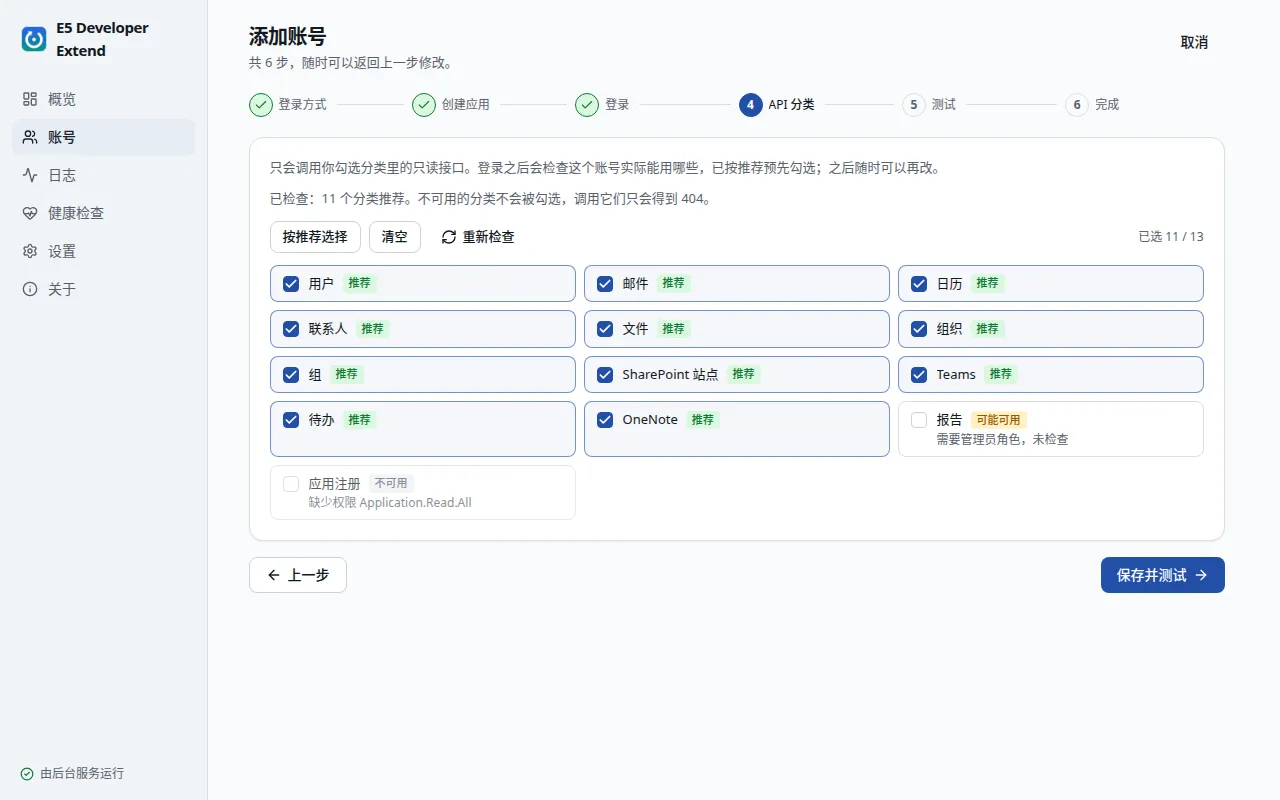
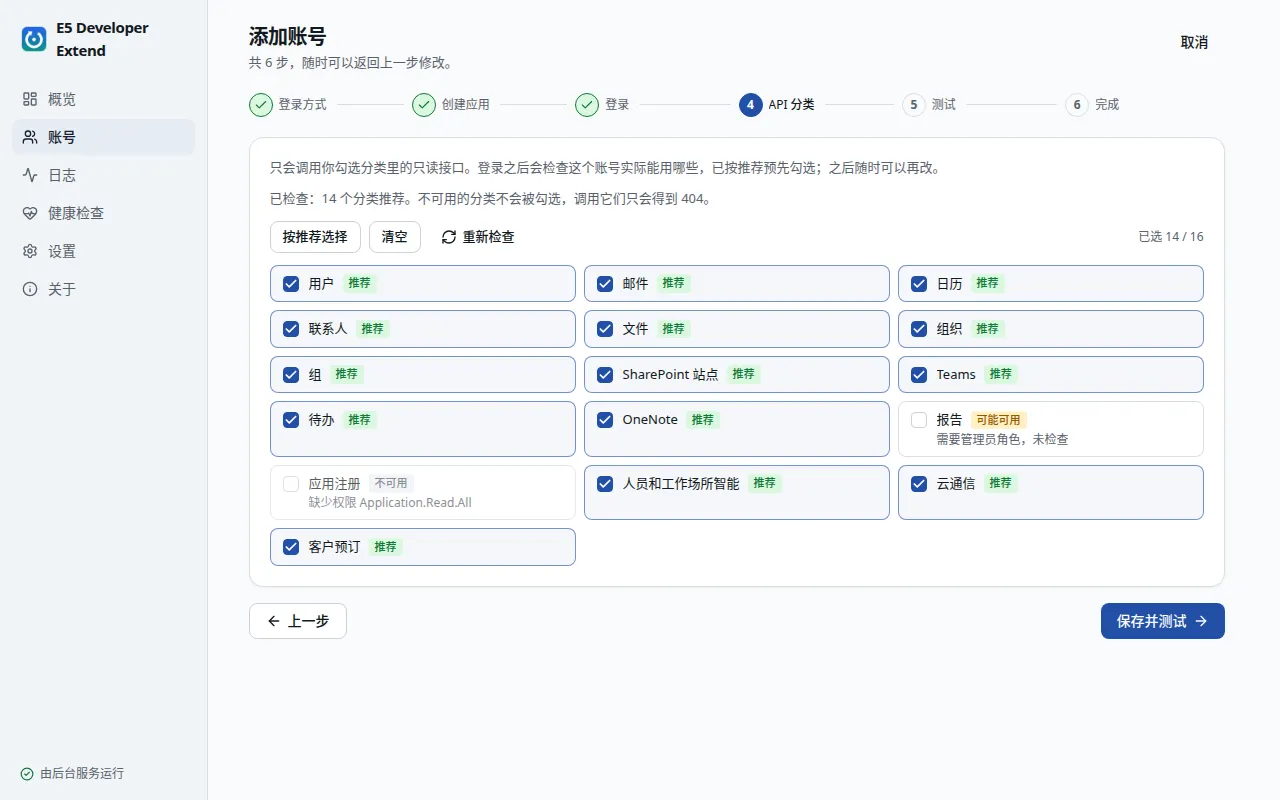
Document the new presets, catalog entries, statistics and the renewal checklist; refresh screenshots

diff --git a/CHANGELOG.md b/CHANGELOG.md
@@ -4,7 +4,16 @@
 
 ## 未发布
 
+### 新增
+
+- 调用节奏新增两档预设：**密集（类似 Renew Plus）**（8 到 17 分钟一轮，每轮 15 到 25 个 API）和**急救（临时）**（5 到 10 分钟一轮，每轮 20 到 30 个 API，只用于订阅到期前的几天，界面上有提示，过后请手动改回“标准”）。某一轮要的 API 数比账号能用的多时，调用能用的全部。
+- API 目录新增只读接口：洞察（热门、使用过、共享的文档）、相关人员、在线状态（presence）、直属下级、用户设置、OneDrive 驱动器列表、日历组、OneNote 分区，以及 Bookings（业务和货币，默认关闭）。新增三个只读权限，自动创建应用会一并申请：委托身份 `People.Read`、`Presence.Read`、`Bookings.Read.All`，应用身份 `Presence.Read.All`、`Bookings.Read.All`。已有的应用注册没有这些权限时，对应接口只是不会被选中，其他不受影响；要补权限可以重新运行 `e5extend app setup`。没有收 `/me/manager`（没有上级的账号会返回 404）、`/me/drive/recent` 和 `sharedWithMe`（微软已停止返回数据）、`/me/settings/regionalAndLanguageSettings`（只在 beta 里）。详见 [docs/graph-api-catalog.md](docs/graph-api-catalog.md)。
+- 按 API 统计调用次数：引擎为每个账号记录每个 API 的成功、失败、总次数和最近一次的结果（存在 state.json 里，每个 API 一条）。命令行 `e5extend stats [账号]`；桌面版“日志”页新增“按 API 统计”，可按列排序。
+- 桌面版概览页新增红色描边的“续期失败？”按钮，打开检查清单（旧版沙盒订阅退役、开发者控制面板、订阅卡片、健康检查、没有保证），清单也写进了 [常见问题](docs/user/faq.md)。
+
 ### 变更
+
+- 默认全天调用（`work_start` 和 `work_end` 都是 `"00:00"`，两者相等表示全天）；以前是 08:00 到 22:00。已有的配置不变。
 
 - 默认每天都调用（以前只在周一到周五）。已有的配置不变；要改回只在工作日，在桌面版“设置 → 调用节奏”里选“仅工作日”，或在配置里写 `work_days = ["mon", "tue", "wed", "thu", "fri"]`。
 

diff --git a/docs/user/faq.md b/docs/user/faq.md
@@ -63,6 +63,18 @@ e5extend doctor          # 全面检查
 这和 403（权限不够）不同，加权限也没用。运行 `e5extend account test <名称> --recommend` 看哪些分类可用，
 加 `--apply` 把可用的分类写进账号；桌面版在编辑账号的“API 分类”一步里有同样的检查。
 
+## 续期失败了怎么办？
+
+桌面版概览页右上角的“续期失败？”按钮会打开同样的清单。按顺序看：
+
+1. **旧版沙盒订阅正在被微软停用。** 微软在逐步退役旧的 Microsoft 365 开发者沙盒订阅（Legacy sandbox retirement），这类订阅不再靠活动续期，
+   和本工具无关。先读微软的说明：<https://learn.microsoft.com/en-us/office/developer-program/legacy-subscription-retirement-faq>。
+2. **看开发者控制面板。** 登录 Microsoft 365 开发者计划的控制面板，确认订阅是否还在、什么时候到期、有没有被标成不符合条件。
+3. **看概览页的“E5 订阅”卡片。** 它读取租户里的订阅状态和到期日（读不到时可以手动填到期日）；状态变化、续期成功和到期前 30、7、1 天都会通知。
+4. **跑一次健康检查。** 桌面版的“健康”页，或 `e5extend doctor`：确认账号没有停在 `needs_attention`、调用没有大量失败、权限够用。
+   账号本身出了问题时，续期当然也无从谈起。
+5. **没有保证。** 这个工具只是让租户有规律的开发活动，是否续期由微软决定（见下一条）。
+
 ## 会不会保证续期？
 
 不会。这个工具只是让租户有规律的、看起来自然的开发活动，是否续期由微软决定。

diff --git a/docs/user/getting-started.en.md b/docs/user/getting-started.en.md
@@ -122,8 +122,19 @@ Open **Settings**. **Running** has two switches:
 When it is on you see "Running" and the next run time. If both exist, the background service runs the engine and the
 tray only shows status.
 
-**Call pace** has three presets (Light, Standard, Frequent) and a choice between every day and weekdays only. Exact
-intervals, working hours, the active period and a proxy are under **Advanced settings**.
+**Call pace** has five presets and a choice between every day and weekdays only. Exact intervals, working hours, the
+active period and a proxy are under **Advanced settings**. By default it runs all day, every day.
+
+| Preset | Interval | APIs per round | For |
+| --- | --- | --- | --- |
+| Light | 2 to 4 hours | 2 to 5 | Less noise |
+| **Standard (default)** | 40 minutes to 2 hours | 3 to 8 | Everyday use |
+| Frequent | 20 minutes to 1 hour | 5 to 12 | A bit busier |
+| Intensive (like Renew Plus) | 8 to 17 minutes | 15 to 25 | About the intensity of Microsoft365 E5 Renew Plus |
+| Rescue (temporary) | 5 to 10 minutes | 20 to 30 | The last few days before the subscription expires; switch back to Standard afterwards, the app does not do it for you |
+
+When a round asks for more APIs than the account can use, it calls all the usable ones. The harder it runs, the more
+likely it is to be throttled, and Microsoft still decides whether the subscription renews.
 
 ![Settings: Running and Call pace](../images/en/settings.webp)
 

diff --git a/docs/user/getting-started.md b/docs/user/getting-started.md
@@ -99,7 +99,17 @@ Linux 选 `deb` 或 `rpm`（桌面版要**两个包都装**）。各系统的详
 
 打开后会显示“运行中”和下次运行时间。两者都有时由后台服务运行引擎，托盘只显示状态。
 
-**调用节奏**可以选“轻度 / 标准 / 频繁”三档预设，以及每天还是只在工作日运行；精确的间隔、工作时段、运行期限、代理在“高级设置”里。
+**调用节奏**有五档预设，以及每天还是只在工作日运行；精确的间隔、工作时段、运行期限、代理在“高级设置”里。默认全天、每天都调用。
+
+| 预设 | 间隔 | 每轮 API 数 | 用途 |
+| --- | --- | --- | --- |
+| 轻度 | 2 到 4 小时 | 2 到 5 | 想少打扰 |
+| **标准（默认）** | 40 分钟到 2 小时 | 3 到 8 | 日常使用 |
+| 频繁 | 20 分钟到 1 小时 | 5 到 12 | 想更勤一点 |
+| 密集（类似 Renew Plus） | 8 到 17 分钟 | 15 到 25 | 接近 Microsoft365 E5 Renew Plus 的强度 |
+| 急救（临时） | 5 到 10 分钟 | 20 到 30 | 订阅快到期的最后几天；过后请改回“标准”，程序不会自动改回 |
+
+某一轮要的 API 数比账号能用的多时，会把能用的全部调用一遍。强度越高越容易被限流，订阅是否续期仍由微软决定。
 
 ![设置：运行方式和调用节奏](../images/zh/settings.webp)
 
